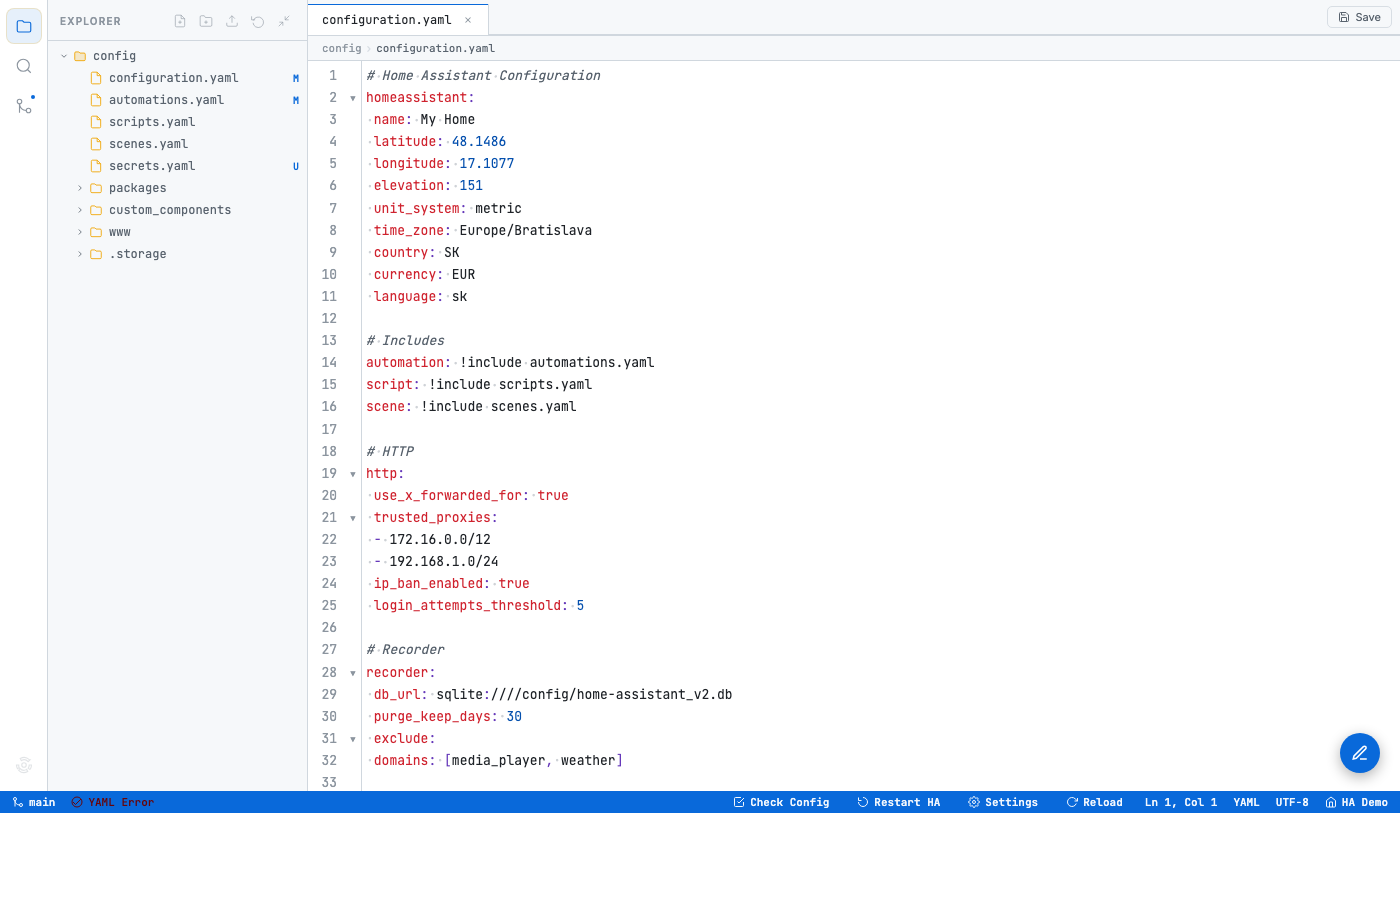
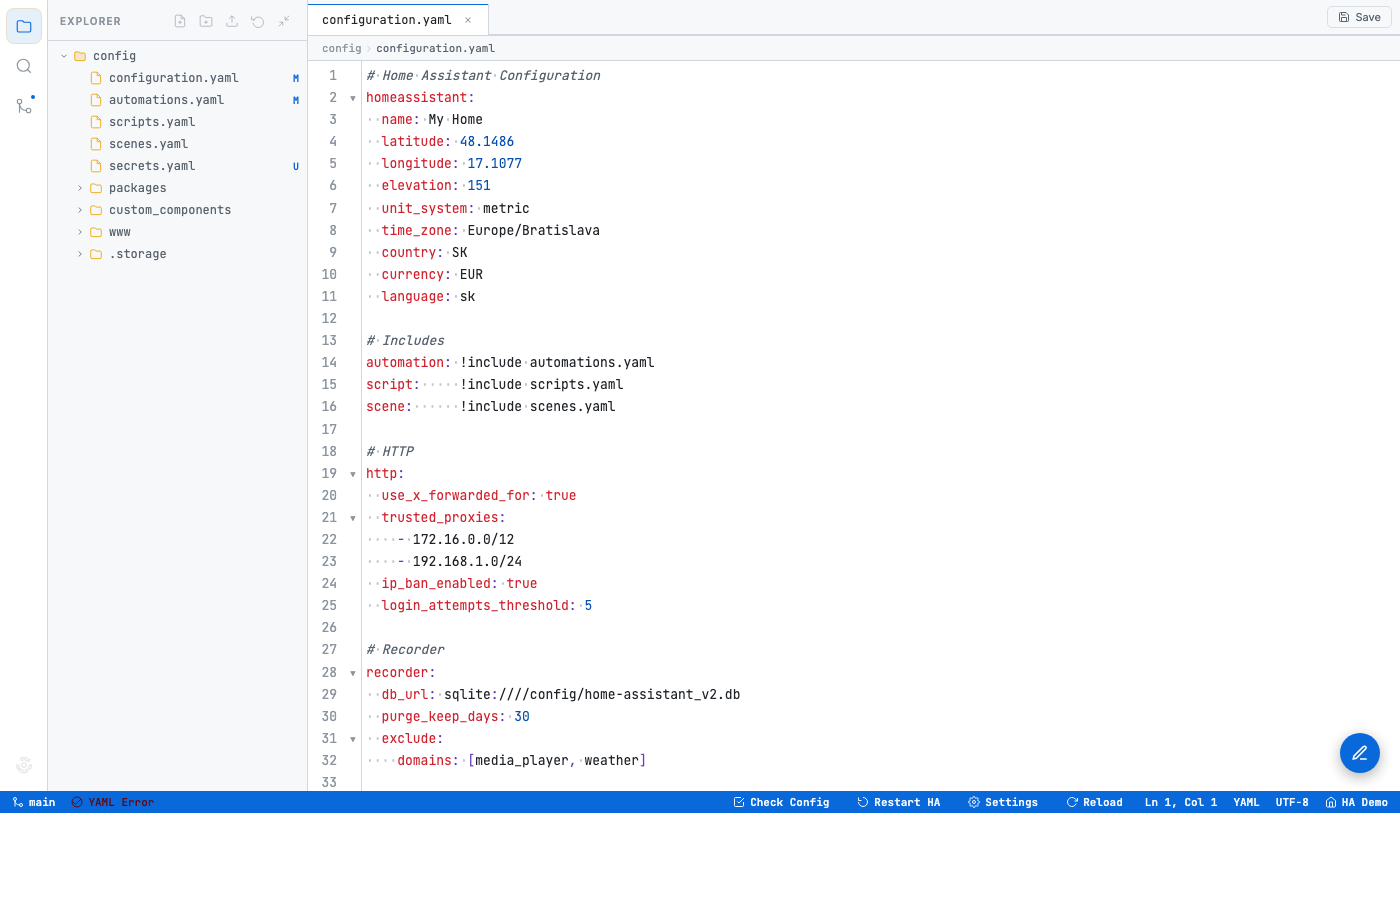
1.3.3: one dot per space in whitespace indicator
CodeMirror's overlay collapses consecutive ws-space tokens into a
single span, so the ::before pseudo-element used in 1.3.1/1.3.2
rendered the dot only once per run of spaces — "two spaces, one
dot" — which broke the visual count of indent levels.

Switched to a tiled background (radial-gradient, 1ch x 1em tile)
that repeats one dot per 1ch of span width, so every space gets
its own dot regardless of how CodeMirror spans them. Also updated
the tab arrow with a tiled linear-gradient.

diff --git a/file_editor_pro/index.html b/file_editor_pro/index.html
@@ -393,23 +393,34 @@
        (and .cm-ws-tab for tabs) via the overlay we register in JS.
        We render a dot/arrow centered over the space character so
        the layout doesn't shift. */
-    /* Space = centered middle-dot, light grey so it guides the eye
-       without fighting the content. The pseudo fills the full line
-       box (inset:0) and uses flex centering for perfect middle
-       alignment regardless of font metrics. */
-    .cm-s-ha .cm-ws-space{position:relative;display:inline-block;width:1ch;height:1.7em;vertical-align:bottom}
-    .cm-s-ha .cm-ws-space::before{
-      content:'·';color:var(--text-muted);opacity:.42;
-      position:absolute;inset:0;
-      display:flex;align-items:center;justify-content:center;
-      pointer-events:none;font-weight:normal;line-height:1
+    /* Whitespace markers painted as tiled backgrounds. CodeMirror's
+       overlay merges consecutive same-class tokens into one span,
+       so a pseudo-element would render the dot only once per run of
+       spaces. A tiled radial-gradient background guarantees ONE dot
+       per 1ch of span width, regardless of how many spaces the span
+       actually wraps — and stays vertically centered at any line
+       height via background-position. Light grey + low alpha so it
+       guides the eye without fighting the code. */
+    .cm-s-ha .cm-ws-space{
+      background-image:radial-gradient(
+        circle,
+        color-mix(in srgb, var(--text-muted) 55%, transparent) 1px,
+        transparent 1.4px
+      );
+      background-size:1ch 1em;
+      background-repeat:repeat-x;
+      background-position:0 center;
     }
-    .cm-s-ha .cm-ws-tab{position:relative;display:inline-block;height:1.7em;vertical-align:bottom}
-    .cm-s-ha .cm-ws-tab::before{
-      content:'→';color:var(--text-muted);opacity:.4;
-      position:absolute;inset:0;
-      display:flex;align-items:center;justify-content:flex-start;
-      padding-left:1px;pointer-events:none
+    .cm-s-ha .cm-ws-tab{
+      background-image:linear-gradient(
+        to right,
+        transparent 2px,
+        color-mix(in srgb, var(--text-muted) 50%, transparent) 2px,
+        color-mix(in srgb, var(--text-muted) 50%, transparent) 4px,
+        transparent 4px
+      );
+      background-repeat:no-repeat;
+      background-position:left center;
     }
 
     /* ── INDENT GUIDES ── */

diff --git a/file_editor_pro/CHANGELOG.md b/file_editor_pro/CHANGELOG.md
@@ -1,5 +1,9 @@
 # Changelog
 
+## 1.3.3 — One dot per space
+
+- Whitespace indicator now paints **one dot per space**. The editor overlay merges consecutive space tokens into one `span`, so a pseudo-element `::before` was rendering the dot only once per run. Switched to a tiled background (radial-gradient, `background-size: 1ch 1em`) that repeats one dot for every 1ch of span width, independent of how many characters the span wraps. Tabs use a similar 4px background tile for the arrow.
+
 ## 1.3.2 — Status bar readability, centered whitespace dots, window title
 
 - **Status bar readability**: fixed a CSS regression where all status-bar text (Check Config, Restart HA, Settings, Reload, Ln/Col, UTF-8, theme env) rendered with a hardcoded dark color that looked disabled on light themes. Now uses the theme's `--status-text` variable, so text is always high-contrast against the bar.
